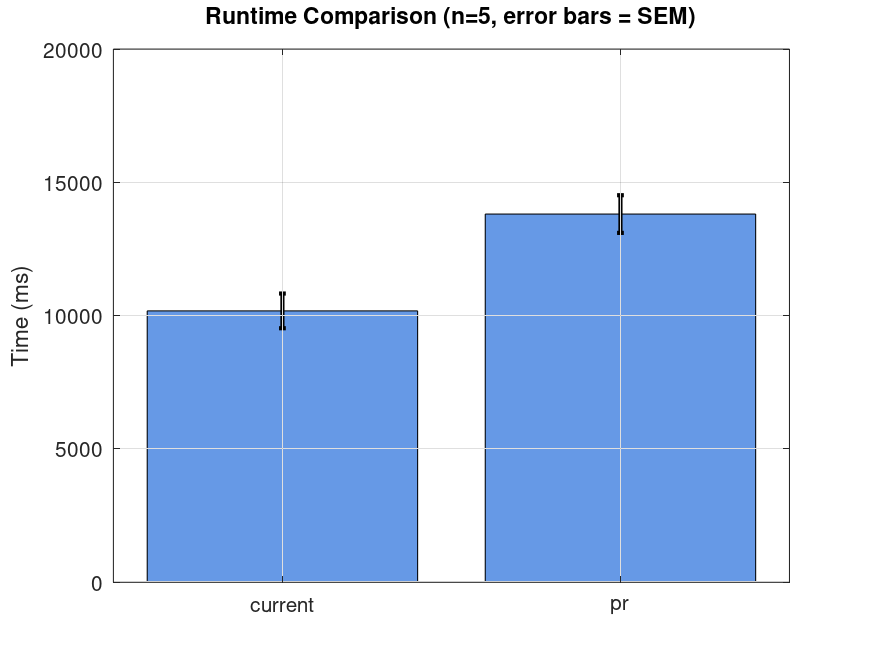
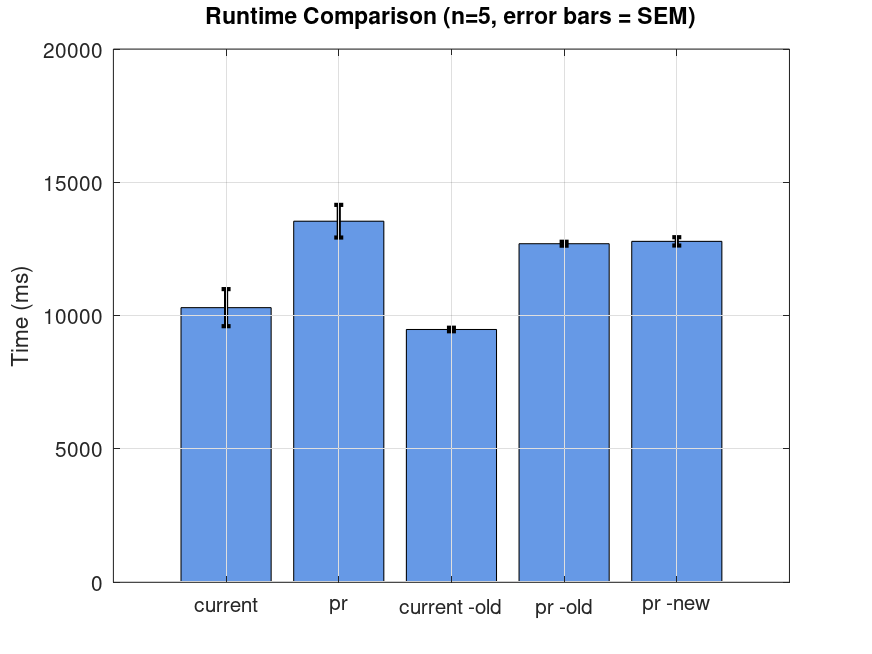
Updates to include test with CharSpanInputStream().

diff --git a/pr/Test.cs b/pr/Test.cs
@@ -24,6 +24,7 @@ public class Program
     static bool show_token_count = false;
     static long total_count = 0;
     static bool old = false;
+    static bool @new = false;
     static bool two_byte = false;
     static int exit_code = 0;
     static string file_encoding = "";
@@ -47,10 +48,14 @@ public class Program
             {
                 two_byte = true;
             }
-            else if (args[i] == "-old")
-            {
-                old = true;
-            }
+	    else if (args[i] == "-old")
+	    {
+		    old = true;
+	    }
+	    else if (args[i] == "-new")
+	    {
+		    @new = true;
+	    }
             else if (args[i] == "-prefix")
             {
                 prefix = args[++i] + " ";
@@ -149,6 +154,11 @@ public class Program
             FileStream fs = new FileStream(input, FileMode.Open);
             str = new Antlr4.Runtime.AntlrInputStream(fs);
         }
+	else if (@new)
+	{
+		FileStream fs = new FileStream(input, FileMode.Open);
+		str = new Antlr4.Runtime.CharSpanInputStream(fs);
+	}
         else if (file_encoding == null || file_encoding == "")
         {
             var detected = CharsetDetector.DetectFromFile(input);